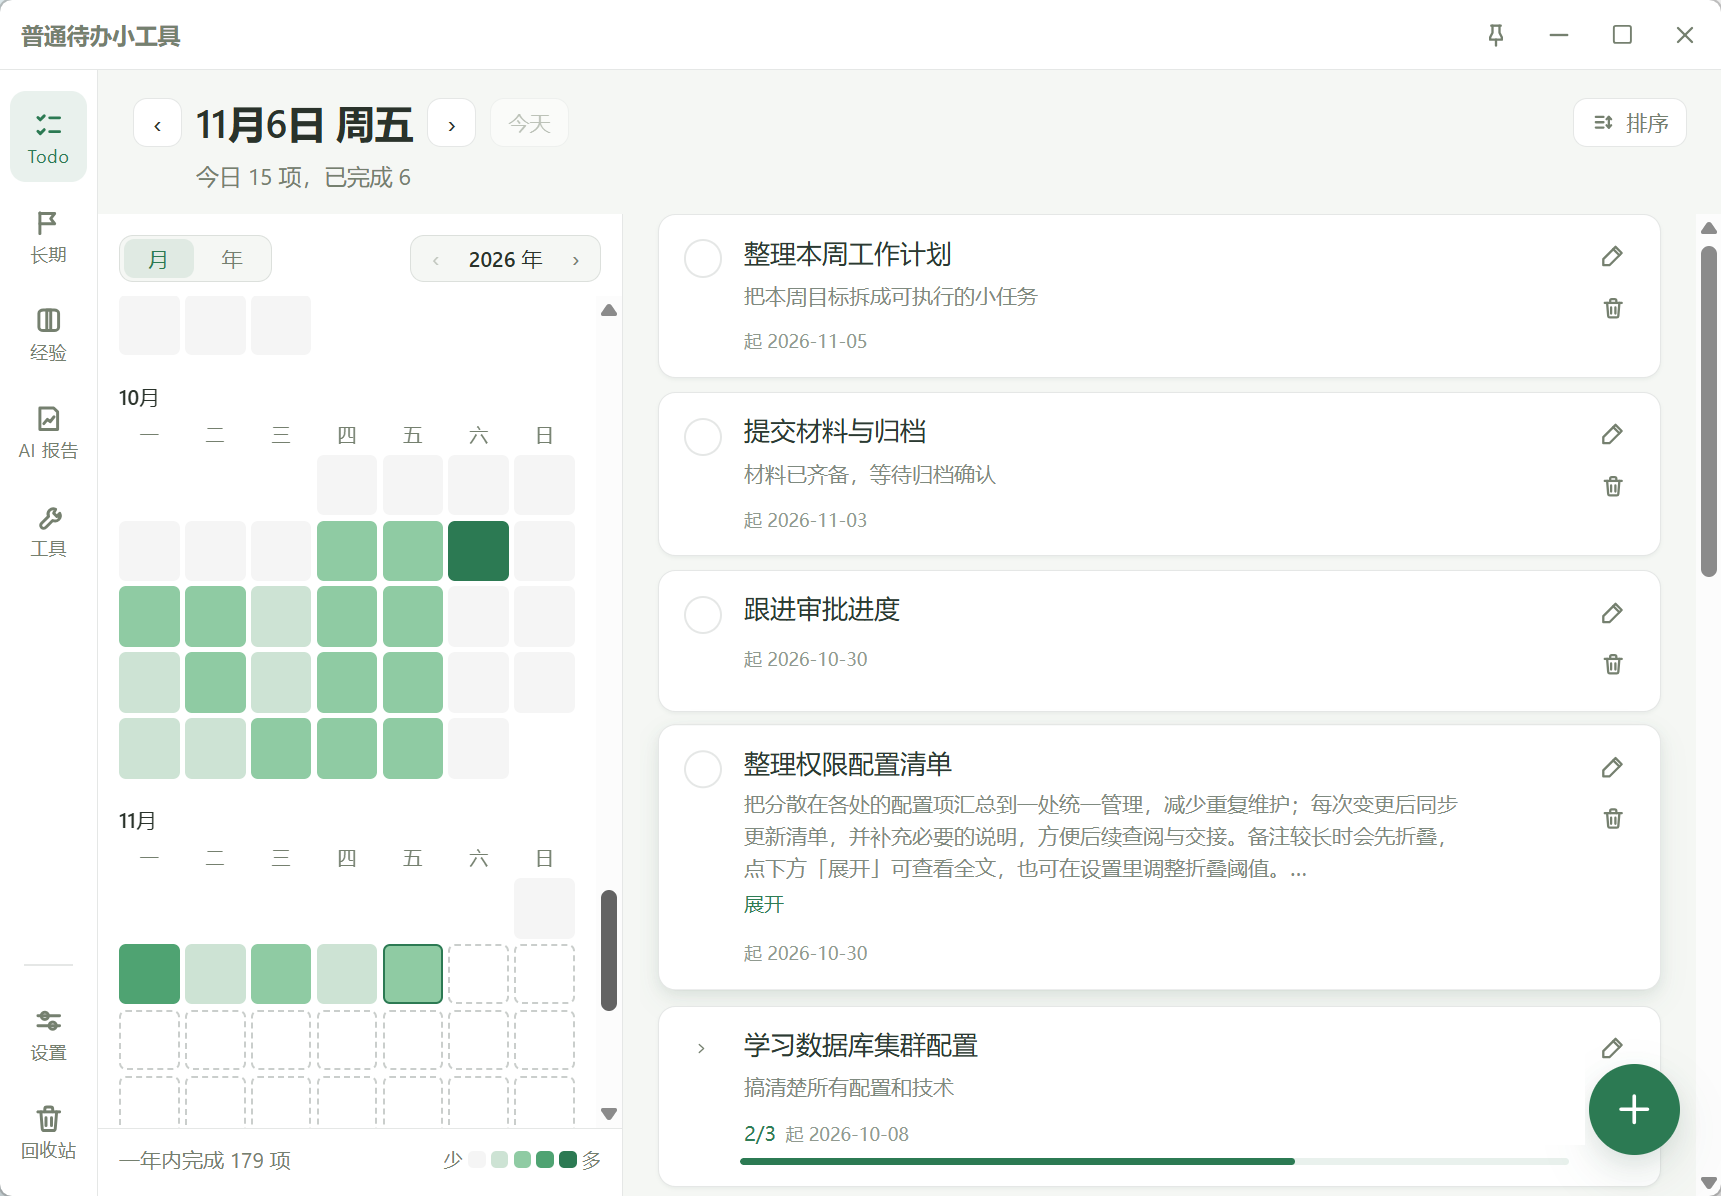
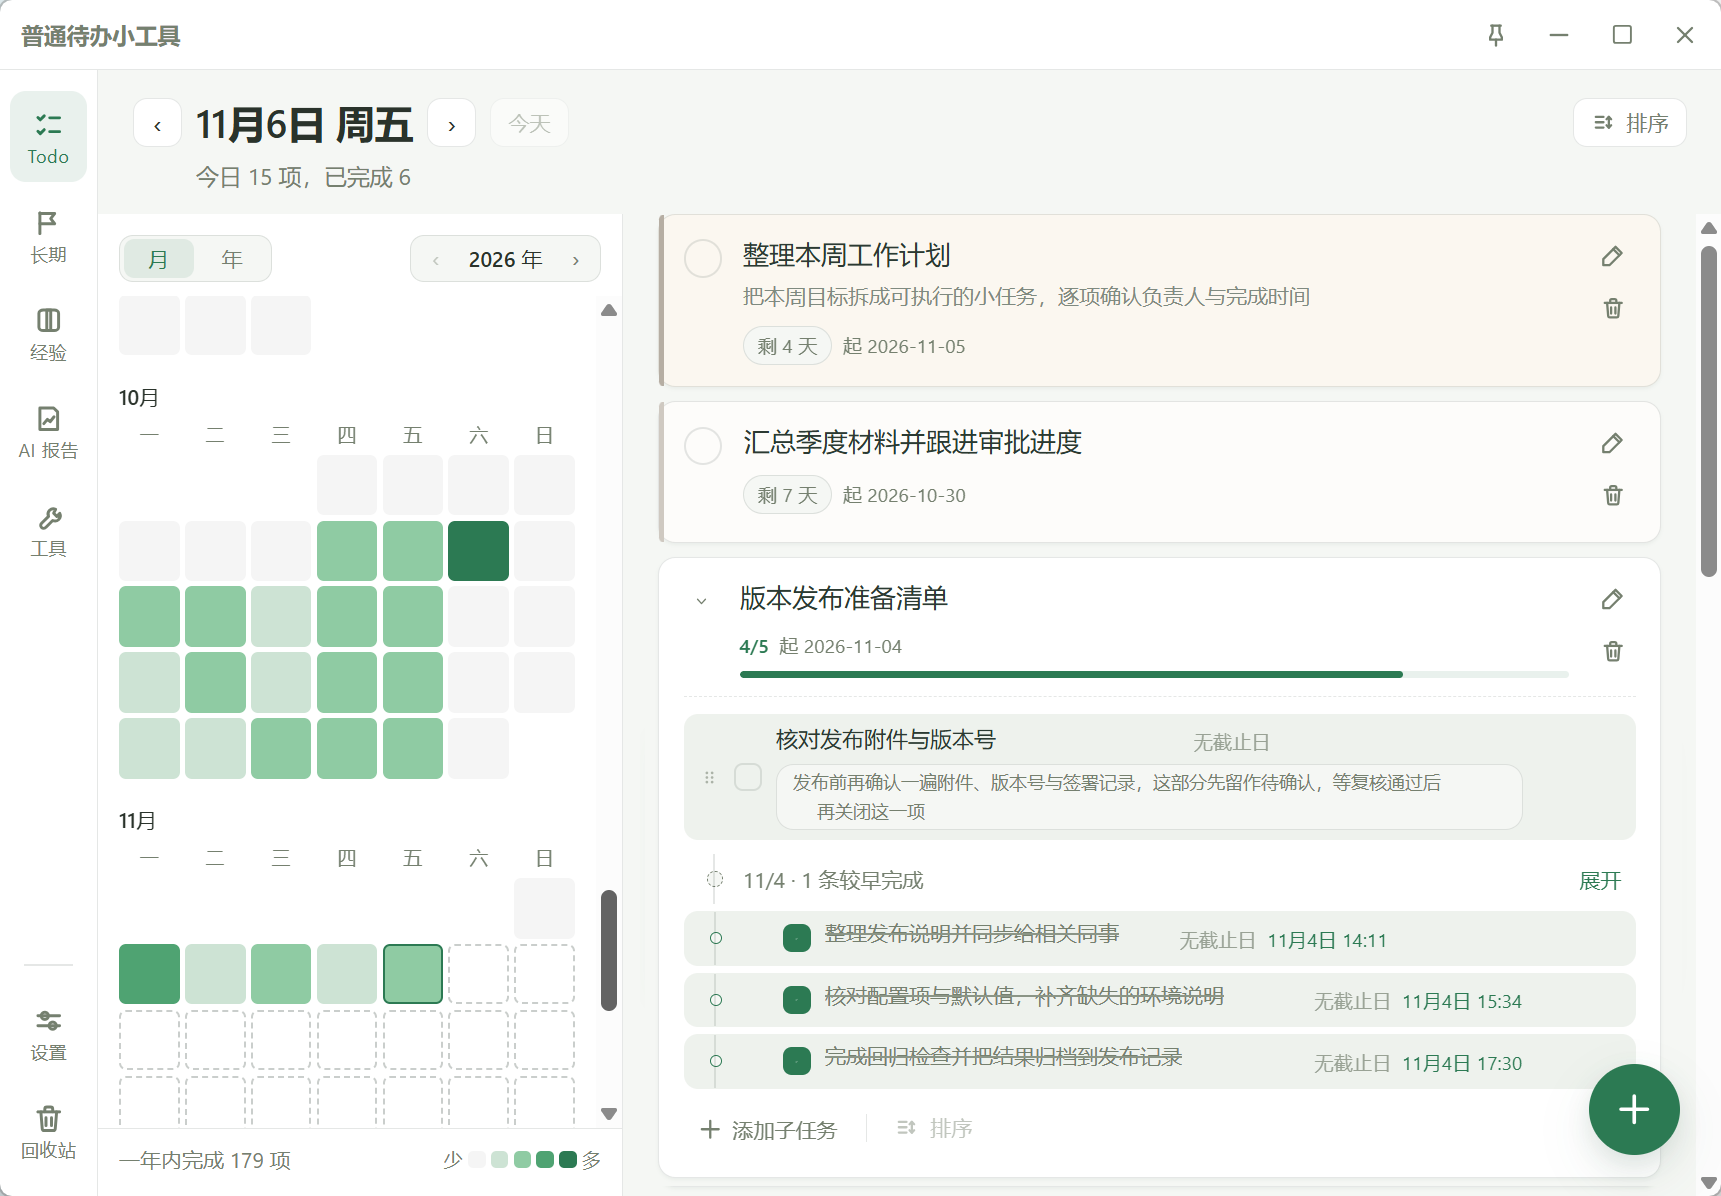
继续更新readme

diff --git a/README.md b/README.md
@@ -2,7 +2,7 @@
 
 > Windows 本地轻量待办工具。周期任务 + 一次性任务混合管理，任务数据全部落在本机 JSON，无需账号、无需服务端。
 
-![DailyTodo 主界面 · Todo 工作台（示例数据，已脱敏）](./_resources/cover.png)
+![DailyTodo 主界面 · Todo 工作台：DDL 倒计时、复合任务集与贡献墙（示例数据，已脱敏）](./_resources/cover.png)
 
 采用 Tauri 2 + React 18 + TypeScript：业务逻辑全部由 TypeScript 实现，Rust 侧只保留 Tauri 系统能力（托盘、窗口、单实例、磨砂背板，以及为公开资讯抓取提供 HTTP 通路）。当前版本 `0.4.0`。
 
@@ -60,7 +60,7 @@
 
 ## 界面速览
 
-> 顶部封面为 Todo 工作台。以下截图均为示例数据，涉及真实项目 / 平台名称的标题已做脱敏替换。
+> 顶部封面为 Todo 工作台。以下截图均为示例数据，涉及真实项目 / 平台 / 模型名称的内容已做脱敏替换或马赛克处理。
 
 ### AI 报告
 
